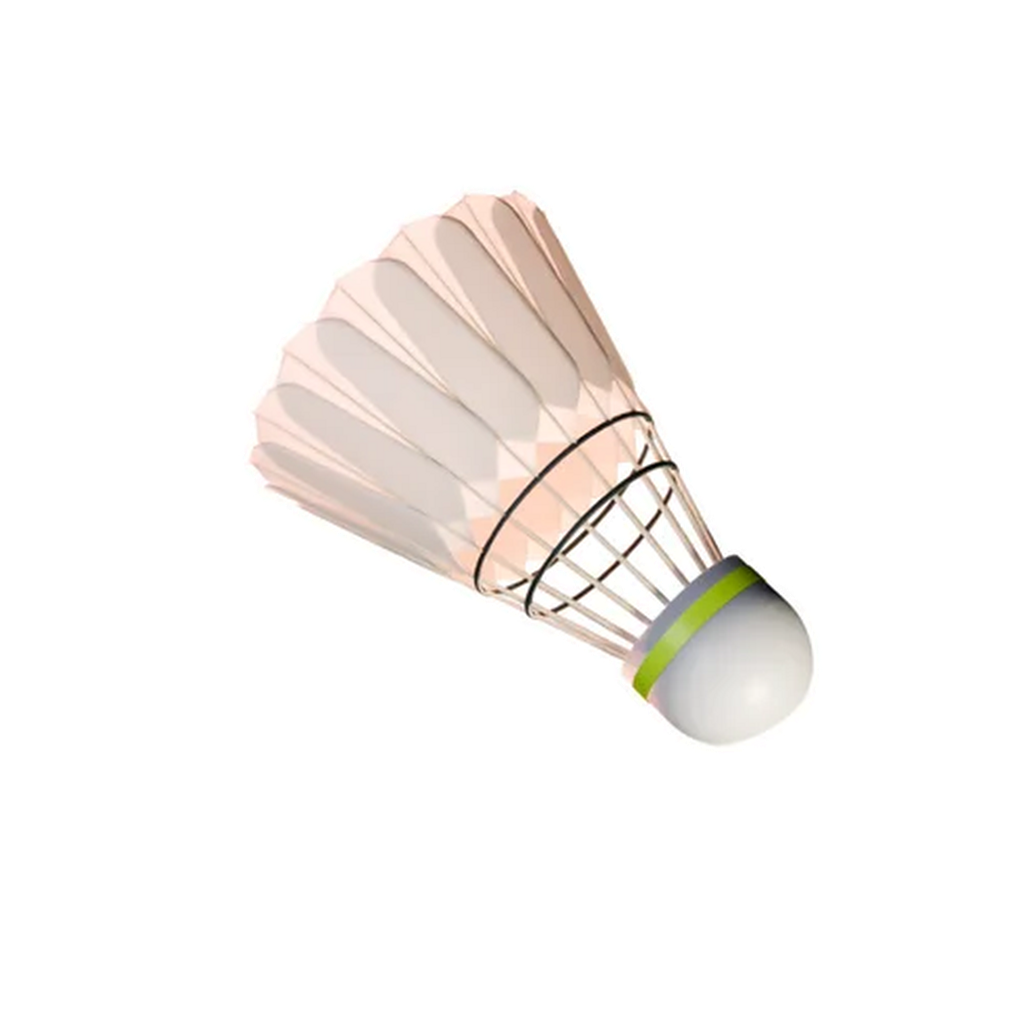
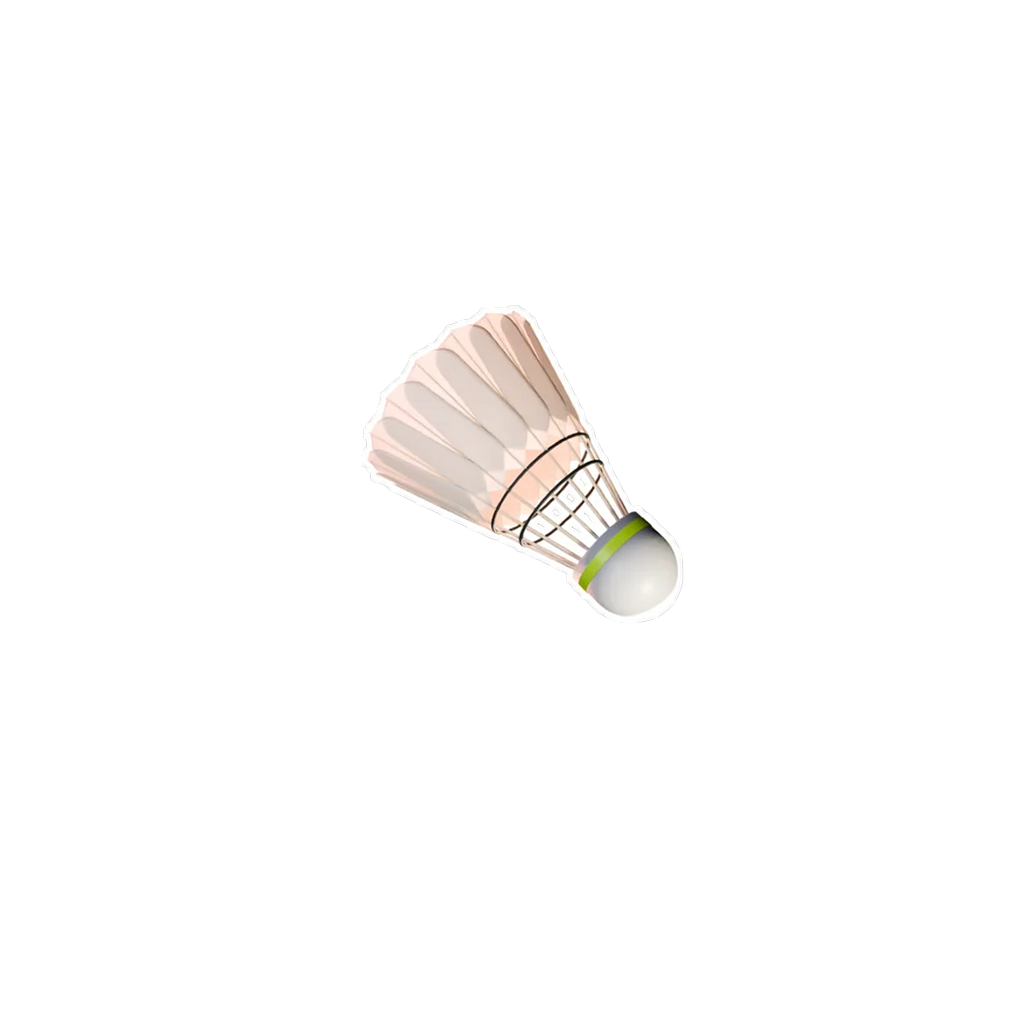
Açılış spini uygulama açılır açılmaz: yerel perdede anahtar karelerle, sistem açılış ekranı spinin ilk karesi
Spin yalnız Unity perdesindeydi ve yerel perdenin arkasında kalıyordu; yükleme kısaysa ana ekrana geçerken görünüyordu.
Artık BirdieAcilis.mm aynı eğrileri Core Animation'da oynatır, Unity aynı saati (BirdieAcilisSure) okuyarak devralır.
Açılış en az spin + yerleşme sürer (yerel perdeden sayılır); yükleme bu sırada biter.

Claude-Session: https://claude.ai/code/session_01FXc2aoCVnTYyfpTe6eE6zB

Changed region(s): [[0.25, 0.1875, 0.8125, 0.75]]

diff --git a/unity/BirdieSmash/Assets/BirdieSmash/Game/Hud.cs b/unity/BirdieSmash/Assets/BirdieSmash/Game/Hud.cs
@@ -273,6 +273,8 @@ namespace BirdieSmash.Game
             // 2026-10-31 akşam: yerel perde artık kapalı evrenin tamamında üstte kalır (önceden 6 akıcı karede kalkıyordu; sonraki
             // takılmalar Unity perdesinde görünüyordu) ve Unity perdeyi açmaya başladığı karede kalkar. Maça geçişte de kullanılır.
             float ys = Yerel.AcilisSure();
+            // Açılış saati: yerel perde açıkken onun süresi (spin onunla aynı anda görünür), sonra kare süresiyle sürer.
+            if (perdeAcilis) acilisSpin = ys >= 0 ? ys : acilisSpin + Mathf.Min(d, .05f);
             if (ys >= 0)
             {
                 if (!Ayar.reduce) perdeAci = ys * 1.2f;
@@ -299,7 +301,8 @@ namespace BirdieSmash.Game
                 // hazır olduktan AKICI_AZAMI sn sonra yine açılır.
                 if (hazir && hazirT < 0) hazirT = perdeT;
                 bool akici = acilisIyi >= AKICI_KARE || perdeSabit >= 0 || (hazirT >= 0 && perdeT - hazirT > AKICI_AZAMI);
-                if (hazir && akici && (perdeT >= min || perdeAtla)) { perdeEvre = 3; perdeT = 0; perdeBek = false; Yerel.AcilisBitir(); if (perdeAcilis) acilisAcT = Time.realtimeSinceStartup; }
+                bool sure = perdeAcilis && !Ayar.reduce ? acilisSpin >= ACILIS_EN_AZ : perdeT >= min;
+                if (hazir && akici && (sure || perdeAtla)) { perdeEvre = 3; perdeT = 0; perdeBek = false; Yerel.AcilisBitir(); if (perdeAcilis) acilisAcT = Time.realtimeSinceStartup; }
             }
             else if (perdeEvre == 3 && perdeT >= (Ayar.reduce ? .25f : .35f)) { perdeEvre = 0; kaynakVar = false; if (perdeAcilis && acilisSonT < 0) acilisSonT = Time.realtimeSinceStartup; }
             if (perdeEvre != 2) perdeBek = false;
@@ -1764,7 +1767,7 @@ namespace BirdieSmash.Game
         // Hareketi azalt: ölçek/dönme/uçuş yok, 200 ms belirme ve 250 ms solma. Top HTML'deki çizilmiş tüy top (Yukleyici.serit, 2026-10-30).
         bool perdeAcilis, kaynakVar; int acilisIyi; float acilisBek, perdeSabit = -1; Vector2 perdeKaynak;
         float acilisSpin, acilisT0 = -1, acilisAcT = -1, acilisSonT = -1;   // ekran turu: gerçek açılışın süreleri (sn)
-        public string AcilisTani { get { return acilisT0 < 0 ? "yok" : "kapalı " + (acilisAcT < 0 ? "?" : (acilisAcT - acilisT0).ToString("F2")) + " sn · toplam " + (acilisSonT < 0 ? "?" : (acilisSonT - acilisT0).ToString("F2")) + " sn (hedef ≥ .95: .60 + .35; ses geç hazırsa hazır + .35)"; } }
+        public string AcilisTani { get { return acilisT0 < 0 ? "yok" : "kapalı " + (acilisAcT < 0 ? "?" : (acilisAcT - acilisT0).ToString("F2")) + " sn · toplam " + (acilisSonT < 0 ? "?" : (acilisSonT - acilisT0).ToString("F2")) + " sn (hedef: yerel perdeden ≥ 1,52 spin + yerleşme, sonra .35; ses geç hazırsa hazır + .35)"; } }
         static float EaseOut3(float x) { return 1 - Mathf.Pow(1 - Mathf.Clamp01(x), 3); }
         static float EaseInOut3(float x) { x = Mathf.Clamp01(x); return x < .5f ? 4 * x * x * x : 1 - Mathf.Pow(-2 * x + 2, 3) / 2; }
         // diskin ölçeği (0..1) ve opaklığı bu karede
@@ -1775,6 +1778,12 @@ namespace BirdieSmash.Game
             else if (perdeEvre == 3) { if (rm) al = 1 - Mathf.Clamp01(perdeT / .25f); else sc = 1 - EaseInOut3(perdeT / .35f); }
         }
         const float UCUS_SN = .28f;
+        // Açılış spini (BirdieAcilis.mm'deki BS_* sabitleriyle birebir aynı tutulmalı): ilk kare tutma, spin süresi, ilk boy,
+        // eksen fazı eki (C0) ve ilk karenin toplam fazı (18 + 1/32 şerit periyodu = kare 0'ın ortası; C0 = FAZ0 − 2,4 × TUT).
+        const float ACILIS_TUT = .12f, ACILIS_SPIN = 1.15f, ACILIS_K0 = .55f, ACILIS_FAZ0 = 18.03125f * Mathf.PI * 2 / 16, ACILIS_C0 = ACILIS_FAZ0 - 2.4f * ACILIS_TUT;
+        // Açılış en az spin + .25 sn yerleşme sürer (yerel perdenin açıldığı andan); yükleme bu sırada biter. Önceden en az .6 sn
+        // Unity perdesinin başladığı andan sayılıyordu: motor açılışı zaten yerel perdede geçtiği için açılışı boşuna uzatıyordu.
+        const float ACILIS_EN_AZ = ACILIS_TUT + ACILIS_SPIN + .25f;
         static Vector2 UcusA { get { return new Vector2(-Screen.width * .1f, Screen.height * .85f); } }
         static Vector2 UcusB { get { return new Vector2(Screen.width * 1.1f, Screen.height * .12f); } }
 
@@ -1797,13 +1806,24 @@ namespace BirdieSmash.Game
                 // 2026-11-11 (yasin, açılış prototipi: "spin atışı ile devam etmeli"): top yerinden oynamaz; ilk 1,15 sn'de iki tam
                 // tur atıp bekleme yönünde (44°) durur, küçükten hafif taşarak büyür, eksen dönüşü hızlı başlayıp yavaşlar.
                 // Hareketi azalt açıkken yok. aci/donus serbest dalda ekrandaki yön ve faz ekidir (TopCiz).
-                if (acilisTop && !Ayar.reduce)
+                // 2026-11-14 (yasin: "top sadece kendi etrafında değil spin de atacaktı, ana sayfaya geçerken spin atıyor sadece"):
+                // spin, yerel açılış perdesinin (BirdieAcilis.mm) arkasında oynuyordu; yerel perde kapalı evre boyunca üstte
+                // kaldığı için görünmüyor, yalnız yükleme kısaysa açılırken görünüyordu. Artık spin uygulamanın açıldığı anda yerel
+                // perdede başlar (aynı eğriler Core Animation anahtar kareleriyle) ve zaman tek: acilisSpin = yerel perdenin
+                // süresi (PerdeTick). Sistem açılış ekranı (CiBuild, Editor/acilis_top.png) spinin ilk karesidir: top .55 boyda,
+                // 44°, şerit karesi 0; ilk ACILIS_TUT sn bu kare durur (pencerenin görünmesi bir iki kare sürebilir, spin
+                // görünmeden başlamasın). Faz eki ACILIS_FAZ0'a göre yazılır: ilk karede toplam faz şerit karesi 0'ın ortası.
+                // Hareketi azalt: spin yok, top açılış boyunda (.55) ve aynı karede durur (sistem ekranıyla aynı, sıçrama yok).
+                if (acilisTop)
                 {
-                    float ta = perdeSabit >= 0 ? (perdeEvre == 2 ? perdeT : 9) : acilisSpin;
-                    if (ta < 1.15f)
+                    float ta = (perdeSabit >= 0 ? (perdeEvre == 2 ? perdeT : 9) : acilisSpin) - ACILIS_TUT;
+                    float faz = root.yukleyici != null ? root.yukleyici.Faz : 0;
+                    if (Ayar.reduce) { k = ACILIS_K0; donus = ACILIS_FAZ0 - faz; }
+                    else if (ta < 0) { aci = 44f - 720f; k = ACILIS_K0; donus = ACILIS_FAZ0 - faz; }
+                    else if (ta < ACILIS_SPIN)
                     {
-                        float uu = EaseOut3(ta / 1.15f), x = Mathf.Clamp01(ta / .7f) - 1; const float C = 1.9f;
-                        aci = 44f - 720f * (1 - uu); donus = 7f * (1 - uu); k = .55f + .45f * (1 + (C + 1) * x * x * x + C * x * x);
+                        float uu = EaseOut3(ta / ACILIS_SPIN), x = Mathf.Clamp01(ta / .7f) - 1; const float C = 1.9f;
+                        aci = 44f - 720f * (1 - uu); donus = ACILIS_C0 * (1 - uu); k = ACILIS_K0 + (1 - ACILIS_K0) * (1 + (C + 1) * x * x * x + C * x * x);
                     }
                 }
                 boy = Mathf.Round(Mathf.Min(W_, H_) * .3f * s * k); serbest = true; return boy > 2 && al > 0;
@@ -1824,7 +1844,7 @@ namespace BirdieSmash.Game
         void PerdeCiz()
         {
             if (perdeEvre == 0) return; if (perdeTex == null) PerdeDoku();
-            if (Event.current.type == EventType.Repaint) { acilisIyi = Time.unscaledDeltaTime < .025f ? acilisIyi + 1 : 0; if (perdeAcilis) acilisSpin += Mathf.Min(Time.unscaledDeltaTime, .05f); }
+            if (Event.current.type == EventType.Repaint) { acilisIyi = Time.unscaledDeltaTime < .025f ? acilisIyi + 1 : 0; }
             blocks.Add(new Rect(0, 0, W, H));
             float sc, al; DiskOlcek(out sc, out al);
             if (sc > .001f && al > .001f)

diff --git a/unity/BirdieSmash/Assets/Plugins/iOS/BirdieAcilis.mm b/unity/BirdieSmash/Assets/Plugins/iOS/BirdieAcilis.mm
@@ -12,6 +12,13 @@
 // çağırmazsa 15 sn sonra kendisi kalkar. Hareketi azalt: dönme yok, tek kare (Unity'deki gibi).
 // Açılış ekranının kendisi (LaunchScreen) düz renk + aynı topun 0. karesi (CiBuild.IosAcilis); bu pencere ilk karede
 // aynı topu aynı yerde gösterir, halkalar .25 sn'de belirir.
+// 2026-11-14 (yasin: "giriş gifini beğeniyorum, ilk yüklemeleri o gif oynarken yapalım; top sadece kendi etrafında değil spin
+// de atacaktı, ana sayfaya geçerken spin atıyor sadece"): açılış spini (Hud.TopDurum, 2026-11-11 prototipi: iki tam tur,
+// küçükten hafif taşarak büyüme, hızlı başlayıp yavaşlayan eksen dönüşü) artık burada, uygulama açılır açılmaz oynar;
+// önceden yalnız Unity perdesindeydi ve bu pencerenin arkasında kalıyordu. Eğriler Hud ile aynı, 1/120 sn anahtar kareler
+// render sunucusunda: motor açılışı ana iş parçacığını tutsa da takılmaz. Sistem açılış ekranı spinin ilk karesi (top .55
+// boyda, şerit karesi 0); ilk BS_TUT sn o kare durur ki pencere görünmeden spin başlamasın. Unity aynı saati
+// (BirdieAcilisSure) okuyarak devralır. Maça geçiş perdesinde spin yok.
 // 2026-10-31 akşam (yasin: "splash gifimiz yine geç giriyor ... tıklanır tıklanmaz ... maça geçiş anı ... takılma olmamalı"):
 // (a) Sistem açılış ekranı didFinishLaunching dönene dek ekranda kalır; perde onun içinde kurulsa da Unity'nin motor
 //     başlatması (super, il2cpp ve veri yükleme) bitene dek görünmüyordu. Klasik yaşam döngüsünde super artık bir sonraki
@@ -50,6 +57,12 @@ static void bsBitir(void)
 
 // aci: halkaların başlangıç açısı (rad, Unity perdeAci ile aynı); topGecikme: top ve yazı bu kadar sn sonra belirir (0: hemen,
 // < 0: hiç); yazi: topun altındaki etiket (nil: yok); yaziOlcek: Ayar.YaziK. Açılışta (aci 0, ilk kurulum) halkalar .25 sn'de belirir.
+// Açılış spini sabitleri: Hud ACILIS_* ile birebir aynı (tutma, süre, ilk boy, ilk karenin toplam fazı, eksen fazı eki).
+static const double BS_TUT = .12, BS_SPIN = 1.15, BS_K0 = .55, BS_AXP = M_PI * 2 / 16, BS_FAZ0 = 18.03125 * BS_AXP, BS_C0 = BS_FAZ0 - 2.4 * BS_TUT;
+static double bsEase3(double x) { x = x < 0 ? 0 : x > 1 ? 1 : x; return 1 - pow(1 - x, 3); }
+static CGRect bsKare(double faz) { int fi = (int)floor(fmod(faz, BS_AXP) / BS_AXP * 16) % 16; return CGRectMake((fi % 4) * .25, (fi / 4) * .25, .25, .25); }
+
+// belir: uygulama açılışı (halkalar belirir, top spin atar); maça geçişte NO.
 static void bsPerdeKur(UIWindow *unity, CGFloat aci, CGFloat topGecikme, NSString *yazi, CGFloat yaziOlcek, BOOL belir)
 {
     UIImage *top = bsResim(@"tuy_don.png");
@@ -94,6 +107,33 @@ static void bsPerdeKur(UIWindow *unity, CGFloat aci, CGFloat topGecikme, NSStrin
     CALayer *T = [CALayer layer]; T.contents = (__bridge id)top.CGImage; T.bounds = CGRectMake(0, 0, 300 * s, 299 * s);
     T.anchorPoint = CGPointMake(39 / 300.0, 36 / 299.0); T.position = cork; T.transform = CATransform3DMakeRotation(yon + M_PI * 135 / 180, 0, 0, 1);
     T.contentsRect = CGRectMake(0, 0, .25, .25); T.minificationFilter = kCAFilterTrilinear; T.magnificationFilter = kCAFilterLinear;
+    if (belir && rm)
+    {   // hareketi azalt: spin yok, top açılış ekranındaki boy ve karede durur (Unity de öyle çizer)
+        T.position = CGPointMake(p.x + cos(yon) * .56 * k * BS_K0, p.y + sin(yon) * .56 * k * BS_K0);
+        T.transform = CATransform3DScale(T.transform, BS_K0, BS_K0, 1); T.contentsRect = bsKare(BS_FAZ0);
+    }
+    else if (belir)
+    {   // spin: ta = 0..BS_SPIN, ekrandaki yön 44° − 720°(1 − u), boy K0 + (1 − K0)·geri taşma eğrisi, faz 2,4·t + C0(1 − u)
+        const int N = (int)round(BS_SPIN * 120); const double C = 1.9;
+        NSMutableArray *kt = [NSMutableArray arrayWithCapacity:N + 1], *pv = [NSMutableArray arrayWithCapacity:N + 1], *tv = [NSMutableArray arrayWithCapacity:N + 1], *cv = [NSMutableArray arrayWithCapacity:N + 1];
+        for (int i = 0; i <= N; i++)
+        {
+            double ta = BS_SPIN * i / N, uu = bsEase3(ta / BS_SPIN), x = fmin(1, ta / .7) - 1, ks = BS_K0 + (1 - BS_K0) * (1 + (C + 1) * x * x * x + C * x * x);
+            double a = (44 - 720 * (1 - uu)) * M_PI / 180, faz = 2.4 * (ta + BS_TUT) + BS_C0 * (1 - uu);
+            [kt addObject:@(ta / BS_SPIN)];
+            [pv addObject:[NSValue valueWithCGPoint:CGPointMake(p.x + cos(a) * .56 * k * ks, p.y + sin(a) * .56 * k * ks)]];
+            [tv addObject:[NSValue valueWithCATransform3D:CATransform3DScale(CATransform3DMakeRotation(a + M_PI * 135 / 180, 0, 0, 1), ks, ks, 1)]];
+            [cv addObject:[NSValue valueWithCGRect:bsKare(faz)]];
+        }
+        NSArray *yollar = @[@"position", @"transform", @"contentsRect"], *degerler = @[pv, tv, cv];
+        for (int j = 0; j < 3; j++)
+        {   // geri dolgu: BS_TUT boyunca ilk kare (= açılış ekranı); bitince modeldeki son poz (44°, tam boy) kalır
+            CAKeyframeAnimation *a = [CAKeyframeAnimation animationWithKeyPath:yollar[j]];
+            a.values = degerler[j]; a.keyTimes = kt; a.duration = BS_SPIN; a.beginTime = t0 + BS_TUT; a.fillMode = kCAFillModeBackwards;
+            if (j == 2) a.calculationMode = kCAAnimationDiscrete;
+            [T addAnimation:a forKey:[@"spin_" stringByAppendingString:yollar[j]]];
+        }
+    }
     if (!rm)
     {
         NSMutableArray *v = [NSMutableArray arrayWithCapacity:16]; NSMutableArray *kt = [NSMutableArray arrayWithCapacity:17];
@@ -101,6 +141,7 @@ static void bsPerdeKur(UIWindow *unity, CGFloat aci, CGFloat topGecikme, NSStrin
         [v addObject:v[0]]; [kt addObject:@1];
         CAKeyframeAnimation *a = [CAKeyframeAnimation animationWithKeyPath:@"contentsRect"];
         a.values = v; a.keyTimes = kt; a.calculationMode = kCAAnimationDiscrete; a.duration = (M_PI * 2 / 16) / 2.4; a.repeatCount = HUGE_VALF; a.beginTime = t0;
+        if (belir) { a.beginTime = t0 + BS_TUT + BS_SPIN; a.timeOffset = BS_TUT + BS_SPIN; }   // spin bitince aynı saatten (faz 2,4·t) sürer
         a.removedOnCompletion = NO; [T addAnimation:a forKey:@"don"];
     }
     if (topGecikme >= 0) [kok addSublayer:T];
@@ -161,7 +202,9 @@ static BOOL bsErteleOlur(void)
     }
     bsHazir = YES;
     BOOL r = [super application:application didFinishLaunchingWithOptions:launchOptions];
-    [self bsOneAl];
+    // Eşzamanlı yolda super motoru başlatırken sistem açılış ekranı üstteydi; spin görünmeden bitmesin diye perde (ve
+    // saati) yeniden kurulur, spin pencere görününce başlar.
+    bsBitir(); [self bsOneAl];
     return r;
 }
 - (void)bsOneAl

diff --git a/tool/acilis_top_uret.py b/tool/acilis_top_uret.py
@@ -1,0 +1,26 @@
+# Sistem açılış ekranının topu (Editor/acilis_top.png; CiBuild.IosAcilisTopu). 2026-11-14: açılış spininin ilk karesi =
+# top .55 boyda, 44°, şerit karesi 0 (BirdieAcilis.mm BS_* / Hud ACILIS_*). Kare ekranın kısa kenarının %50'si (FillPct 50),
+# top Hud geometrisiyle: merkezden .026·m yukarı, boy .3·m, mantar (39,36) çevresinde yön + 135°. Doğrulama: --eski
+# (boy 1) eski dosyayla premultiplied ortalama fark 0,42/255 verdi. Gerek: python3 + Pillow + numpy.
+# Kullanım (depo kökünden): python3 tool/acilis_top_uret.py
+import sys, os, math, numpy as np
+from PIL import Image
+A=os.path.join(os.path.dirname(os.path.abspath(__file__)),'..','unity','BirdieSmash','Assets')+os.sep
+strip=Image.open(A+'Resources/ui/tuy_don.png').convert('RGBA')
+def gen(fi, ks, out=None, N=1024):
+    m=N/.5; k=.3*m*ks; s=k/300; p=(N/2, N/2-.026*m); yon=math.radians(44)
+    cork=(p[0]+math.cos(yon)*.56*k, p[1]+math.sin(yon)*.56*k)
+    fr=strip.crop(((fi%4)*300,(fi//4)*299,(fi%4)*300+300,(fi//4)*299+299))
+    a=np.array(fr).astype(np.float32); a[...,:3]*=a[...,3:4]/255; fr=Image.fromarray(a.clip(0,255).astype(np.uint8))
+    th=math.radians(44+135); c,sn=math.cos(th),math.sin(th)
+    # f = (39,36) + R(-th)(q-cork)/s ; R(-th)=[[c,sn],[-sn,c]]
+    aa=c/s; bb=sn/s; dd=-sn/s; ee=c/s
+    cc=39-aa*cork[0]-bb*cork[1]; ff=36-dd*cork[0]-ee*cork[1]
+    o=fr.transform((N,N),Image.AFFINE,(aa,bb,cc,dd,ee,ff),resample=Image.BICUBIC)
+    o=np.array(o).astype(np.float32); al=o[...,3:4]; o[...,:3]=np.where(al>0,o[...,:3]*255/np.maximum(al,1),0)
+    img=Image.fromarray(o.clip(0,255).astype(np.uint8),'RGBA')
+    if out: img.save(out,optimize=True)
+    return np.array(img)
+if __name__=='__main__':
+    ks=1.0 if '--eski' in sys.argv else .55
+    gen(0, ks, A+'BirdieSmash/Editor/acilis_top.png'); print('yazıldı, boy', ks)

diff --git a/unity/BirdieSmash/Assets/BirdieSmash/Game/EkranTuru.cs b/unity/BirdieSmash/Assets/BirdieSmash/Game/EkranTuru.cs
@@ -879,7 +879,7 @@ namespace BirdieSmash.Game
             hud.PerdeKare(false, 2, .3f); yield return PerdeCek("gecis_azalt_kapali");
             hud.PerdeKare(false, 3, .12f); yield return PerdeCek("gecis_azalt_acilis_0120");
             Ayar.reduce = false;
-            foreach (var k in new[] { 0f, .10f, .25f, .40f, .55f, .65f }) { hud.PerdeKare(true, 2, k); yield return PerdeCek("acilis_" + Ms(k)); }
+            foreach (var k in new[] { 0f, .12f, .25f, .40f, .60f, .85f, 1.10f, 1.30f }) { hud.PerdeKare(true, 2, k); yield return PerdeCek("acilis_" + Ms(k)); }
             hud.PerdeKare(true, 2, 0, true); yield return PerdeCek("acilis_bekle");
             // 2026-10-30 (yasin: "gif takılmamalı, maçtaki topun aynısını 3B dönerken görmeliyim"): bekleme pozunda tam bir eksen
             // turu, 66 kare (40 ms → 2,64 sn/tur ≈ 2,4 rad/sn, oyundaki hız). Faz sabitlenir; GIF döngüsü dikişsiz.

diff --git a/unity/BirdieSmash/Assets/BirdieSmash/Editor/CiBuild.cs b/unity/BirdieSmash/Assets/BirdieSmash/Editor/CiBuild.cs
@@ -182,6 +182,8 @@ namespace BirdieSmash.EditorTools
         // üstünde ortada, yerel perdenin (Plugins/iOS/BirdieAcilis.mm) ilk karesiyle aynı yer ve boy; dokunuştan sonraki ilk
         // görüntüde top zaten durur, motor açılmadan dönmeye başlar. Görsel kare: ekranın kısa kenarının %50'si, top Hud
         // geometrisiyle (merkezden .026·m yukarı, boy .3·m) içine çizilmiş (Editor/acilis_top.png, scratchpad üreteci).
+        // 2026-11-14: görsel artık açılış spininin ilk karesi (top .55 boyda; BirdieAcilis.mm spini buradan başlatır, sıçrama
+        // yok). Üreteç depoda: tool/acilis_top_uret.py.
         // "Görsel ve arka plan (göreli)" tipi; alan adları public API'de olmadığı için SerializedObject. Bulunamazsa düz renk kalır.
         const string AcilisTop = "Assets/BirdieSmash/Editor/acilis_top.png";
         static void IosAcilisTopu()
